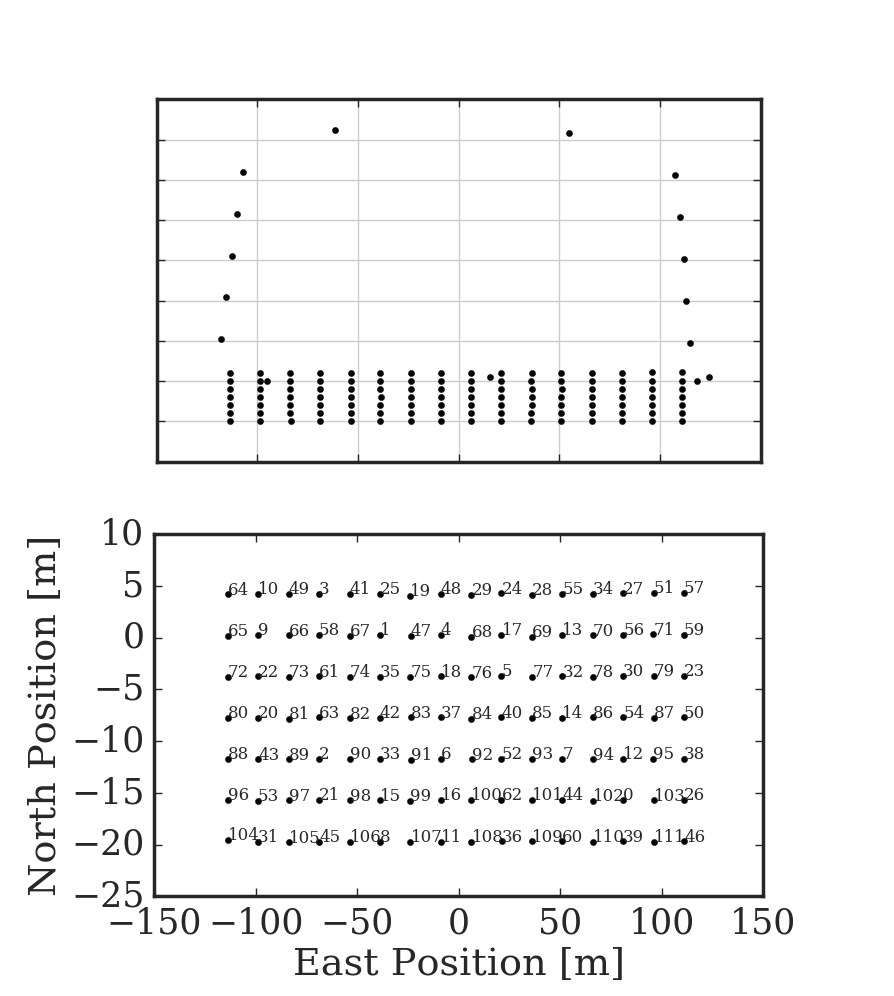
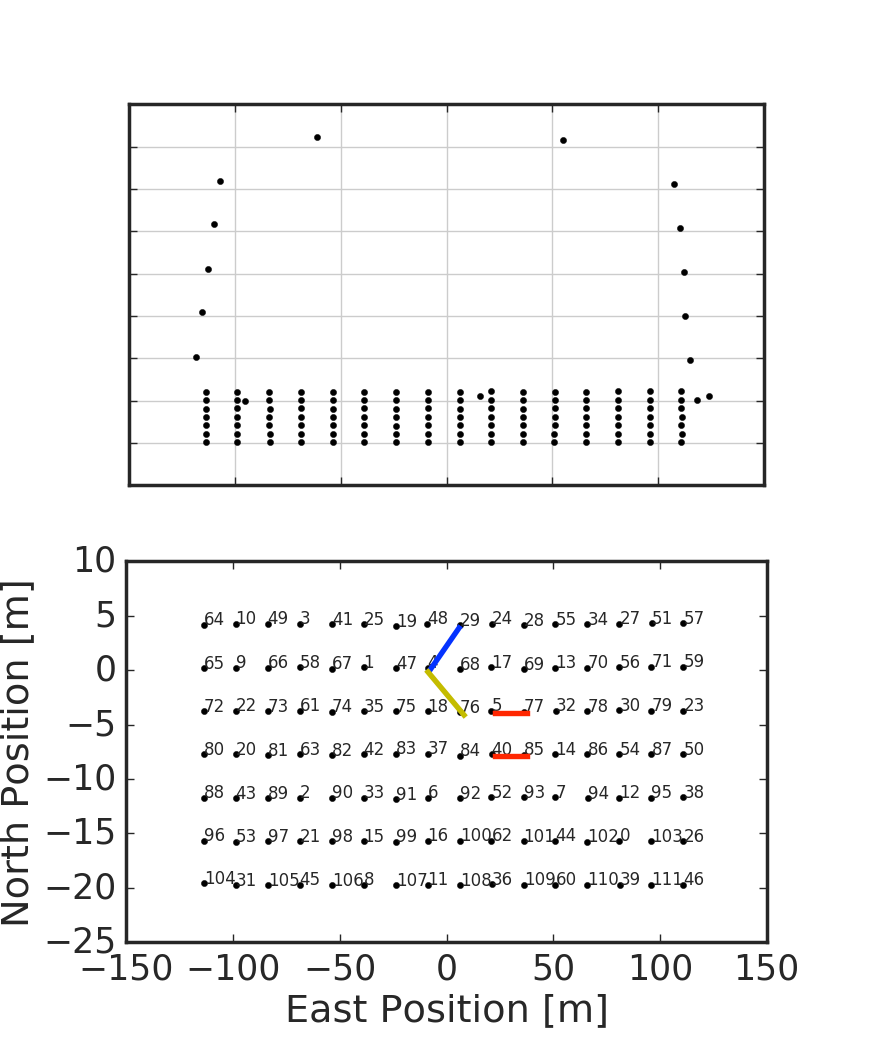
save

diff --git a/Rotation paper/draft_working.tex b/Rotation paper/draft_working.tex
@@ -31,8 +31,8 @@ Aaron R. Parsons\altaffilmark{1, 2}
 \altaffiltext{2}{Radio Astronomy Lab., U. California, Berkeley, CA}
 
 \begin{abstract}
-The observational effort to measure the cosmological 21\,cm power spectrum with radio interferometers requires high sensitivity. We introduce a straightforward and accurate method to extract sensitivity from visibility data. We develop our method in line with existing visibility-based power spectrum pipelines. Our method efficiently finds subsets of baselines to cross correlate, including partially redundant baselines, and quantifies the sensitivity contributions of given baselines. 
-Using the 128-element configurations and beams of Precision Array for Probing the Epoch of Reionization (PAPER-128), as well as 4 planned versions of the Hydrogen Epoch of Reionization Array (HERA), we illustrate how our method applies to different arrays and predict the sensitivity improvements of including each baseline pairs. We show that inclusion of non-perfectly redundant baselines 
+The observational effort to measure the cosmological 21\,cm power spectrum with radio interferometers requires high sensitivity. Current visibility-based power spectrum pipelines, though shown to ease control of systematics, lack the ability to include partial redundancy. We introduce a method to include partial redundancy in such power spectrum pipelines of drift-scan arrays. Our method efficiently finds pairs of baselines to cross-multiply, and quantifies the sensitivity contributions of given baselines. 
+Using the 128-element configurations and beams of the Precision Array for Probing the Epoch of Reionization (PAPER-128), as well as 4 planned versions of the Hydrogen Epoch of Reionization Array (HERA), we illustrate how our method applies to different arrays and predict the sensitivity improvements of including each baseline pairs. We show that inclusion of partially redundant baselines 
 would account for $20\%$ to $60\%$ of the sensitivity of PAPER-128 and different configurations of HERA. 
 \end{abstract}
 
@@ -62,11 +62,11 @@ and the Square Kilometer Array Low (SKA-low) (e.g. \citealt{SKA1}), which is cur
 These modern low-frequency radio interferometers aimed at measuring the 21\,cm signal bears designs dramatically different from traditional instruments built for imaging localized bright sources.  With the goal of detecting a cosmological signal 5 orders of magnitude fainter than foreground contaminations, current efforts are sensitivity starved. Maximum-redundancy arrays are thus designed to repeatedly measure the same Fourier signal to increase sensitivity. Ranging upwards from 100 elements, these arrays are typically of the drift-scan type to limit cost. 
 
 Analysis pipelines of such maximum-redundancy arrays typically fall into two categories. In the first, more traditional technique, image is formed in Fourier domain through rotation synthesis, then foreground is either removed or avoided to construct a power spectrum. The second, lately popular technique works directly with visibilities from baselines and cross multiply them to form the power spectrum. Due to its more natural focus on the instrumental output of visibilities, this technique is shown to fair better in dealing with systematics such as RFIs and instrumental cross-talks, and thus tend to provide good limits on the power spectrum. \cite{Ali2015} provides the newest upper limit to the power spectrum
-measurements with the 64-element version of PAPER (henceforth referred to as PAPER-64). However, there is one caveat with existing visibility-based pipelines. While an imaging based power-spectrum pipeline naturally includes all redundancy information, visibility-based pipelines until now only cross multiply fully redundant baselines, in other words baselines of the same length and orientation.
+measurements with the 64-element version of PAPER (henceforth referred to as PAPER-64). However, one disadvantage of existing visibility-based pipelines is the lack of use of partial redundancy. Baselines of different length and orientation still contain partially redundant information. While an imaging based power-spectrum pipeline naturally includes all redundancy information, visibility-based pipelines until now only cross multiply fully redundant baselines, in other words baselines of the same length and orientation.
 
-Baselines of different length and orientation still contain partially redundant information. The use of partially redundant baselines is in principle not a fundamental limitation of visibility-based pipelines. In fact, most instrumental reports to date do include partial redundancy. Recently, \cite{wterm} proposed an algorithmic approach to extract power-spectrum from partially redundant baselines in tracking measurements, by carefully treating the $w$-term in the fringe pattern to obtain weights for cross-correlation. Our work parallels this effort by focusing on arrays of the drift-scan type that do not have tracking capabilities, such as PAPER, HERA and SKA.
+The use of partially redundant baselines is in principle not a fundamental limitation of visibility-based pipelines. In fact, most instrumental reports to date do include partial redundancy. Recently, \cite{wterm} proposed a visibility-based approach to extract power spectrum from partially redundant baselines in tracking measurements. Our work parallels this effort by focusing on arrays of the drift-scan type that do not have tracking capabilities, such as PAPER, HERA and SKA.
 The Earth's rotation causes the baselines in a drift-scan array to pick up different modes of the sky with time. Rotation-synthesis makes use of the rotation-induced $uv$ coverage map to form image. In a visibility based pipeline, we can extract the same rotation-induced redundancy. In this point of view, baselines that are slightly different in length and orientation
-rotate into each other at a time delay. We can thus cross-multiply time-shifted visibilities, with the proper weighting, to form power spectrum.  Due to the large number of elements of modern arrays (upward of 100), the task of cross-multiplying every baseline against every other, scaling as number of array element to the fourth power, can be computationally formidable. Our contribution is thus twofold. First we introduce a formalism to include pairs of partially-redundant baselines in a visibility based power spectrum pipeline. Secondly we show how to use the formalism to automaticaly preselect baseline pairs and time offsets, making the problem computationally efficient. More precisely, our formalism allows one to simultaneously a) identify the baselines that give good
+``rotate into'' each other at a time delay. We can thus cross-multiply time-shifted visibilities, with the proper weighting, to form power spectrum.  Due to the large number of elements of modern arrays (upward of 100), the task of cross-multiplying every baseline against every other, scaling as number of array element to the fourth power, can be computationally formidable, and many pairs of baselines provide only negligible redundancy information. Our contribution is thus twofold. First we introduce a formalism to include pairs of partially-redundant baselines in a visibility based power spectrum pipeline. Secondly we show how to use the formalism to automatically pre-select baseline pairs and time offsets, making the problem computationally efficient. More precisely, our formalism allows one to simultaneously a) identify the baselines that give good
 redundancy, b) find the time offset that corresponds to maximal redundancy for a given pair of baselines, and
 c) quantify the sensitivity associated with cross multiplying
 such a pair of partially redundant baselines, which in turns is used as weight to combine measurements in a power spectrum pipeline. 
@@ -83,52 +83,47 @@ with this method for HERA and PAPER-128 and with section 5 we conclude.
 
 \section{Notation and Terminology}
 
-In order to eliminate confusion and ambiguity, we
-introduce some terminology for the rest of this paper, some of which differs from what is commonly found in the literature. 
+In order to eliminate confusion and ambiguity for the rest of this paper, we
+introduce some terminology that may differ from what is commonly found in the literature. 
 
-First, we make the distinction of a \textit{``baseline''}, which refers to two specific antennas, and a \textit{``class of baselines''}, which refers to all baselines of the same length and orientation in a given array. 
-
+We make the distinction of a \textit{baseline}, which corresponds to two specific antennas, and a \textit{class of baselines}, which refers to all baselines of the same length and orientation in a given array. 
 Baselines of the same class are traditionally called
 ``redundant baselines'', because they measure the same Fourier mode
-in the sky.  We shall call baselines in the same class \textit{``equivalent baselines''}, and reserve the word \textit{``redundancy''} of two baselines in reference to a variable function of the relative time-offsets of their visibility time series. With this terminology, two equivalent
+in the sky.  We shall call baselines in the same class \textit{equivalent baselines}, and reserve the word \textit{redundancy} of two baselines in reference to a variable function of the relative time-offsets of their visibility time series. With this terminology, two equivalent
 baselines are fully redundant with each other simultaneously at all
-times. Non-equivalent baselines also have partial redundancy, which is maximized if their
+times. Non-equivalent baselines also have partial redundancy, and the redundancy can be maximized if their
 respected time series are shifted with respect to one another by some delay. In other words, one baseline can be ``rotated into''
-another if they are \textit{``near-equivalent''}.
+another if they are \textit{near-equivalent}.
 
 \begin{figure}[H]
 \includegraphics[width=\linewidth]{antpos128}
 
 \caption{The PAPER-128 layout. Each dot corresponds to the location of
 an antenna. Top panel shows the antenna positions drawn to scale;
-bottom panel show the antenna labels and distances, excluding the outrigger
-antennas.
-The numbering of the antennas the bottom panel are original labels
+bottom panel show the antenna labels and distances of the 112-element grid, in other words excluding the outrigger antennas.
+The numbering of the antennas in the bottom panel are original labels
 during instrument assembly and does not bear significant
-meaning. In the bottom panel, the two baselines (5,77) and (40,85) are an example of equivalent pair, with separation denoted by \{1, 0\}, for the
+meaning. In the bottom panel, the two baselines (5,77) and (40,85) marked with red segments are example of an equivalent pair, both with separation denoted by \{1, 0\}, for the
 antennas are separated by 1 unit east and 0 unit north. Similarly,
-the baselines (5,69) and (5,85) are examples
-of the classes \{1, 1\} and \{1,-1\}, respectively. Note \{1, 0\} and \{-1, 0\} for example
-are the same baseline classes and should not be counted twice.}
+the baselines marked in blue and yellow are examples
+of the classes \{1, 1\} and \{1,-1\}, respectively. Due to the small North-South separation within the grid, \{1, 1\} is expected to be near-equivalent to \{1, 0\}. }
 \label{fig:AntPos}
 \end{figure}
 
 We shall use the 128-element PAPER array (henceforth as PAPER-128) to motivate our formalism and demonstrate our method, and extend our results to several HERA configurations in Sec \ref{sec:arrconf}. 
 The PAPER array is located in the Karoo desert in South Africa (30:43:17.5
 S, 21:25:41.8 E). The layout pattern with antenna labels are show
-in Fig. \ref{fig:AntPos}. The array consists of a 112-element grid and 16 "outriggers" used primarily to aid calibration. We see the antenna spacing in North-South
-directions are comparatively close (4m), so that baselines such as
-(0, 44) and (0, 7) are very close to equivalent. In the bottom panel, the two baselines (5, 77) and (40, 85) are an example of equivalent pair, with separation denoted by \{1, 0\}, for the
+in Fig. \ref{fig:AntPos}. The array consists of a 112-element grid and 16 "outriggers" used primarily to aid calibration.  In the bottom panel, the two baselines (5, 77) and (40, 85), marked in red, are an example of equivalent pair. We denote a equivalency-class of baselines in the PAPER grid by their separations, in this case  \{1, 0\}, for the
 antennas are separated by 1 unit east and 0 unit north. Similarly,
-the baselines (5, 69) and (5, 85) are examples
-of \{1, 1\} and \{1, -1\}, respectively.
-Note \{1, 0\} and \{-1, 0\} for example are the same classes and should
+the baselines marked in blue and yellow are respectively examples
+of \{1, 1\} and \{1, -1\}.
+Note \{1, 0\} and \{-1, 0\} for example are the same class and should
 not be counted twice. Antennas in purely north-south baselines
-are close enough to induce cross-talk, and hence are not suitable
-for use. The PAPER-64 analysis of \cite{Ali2015} used three classes of baselines, the PAPER-128
+are close (4m), and hence these baselines are not suitable
+for cross-multiplication due to cross-talks. On the other hand, the close North-South separation means that classes such as \{1, 0\} and  \{1, 1\} are expected to be near-equivalent. The PAPER-64 analysis of \cite{Ali2015} used three classes of baselines, the PAPER-128
 equivalent of which are 
 \{2, 0\}, \{2, 1\} and \{2, -1\}. There each of these classes
-of baselines are cross multiplied to itself. 
+of baselines are cross multiplied within itself. This paper provides the method for inter-class multiplications. 
 
 
 \section{Method}
